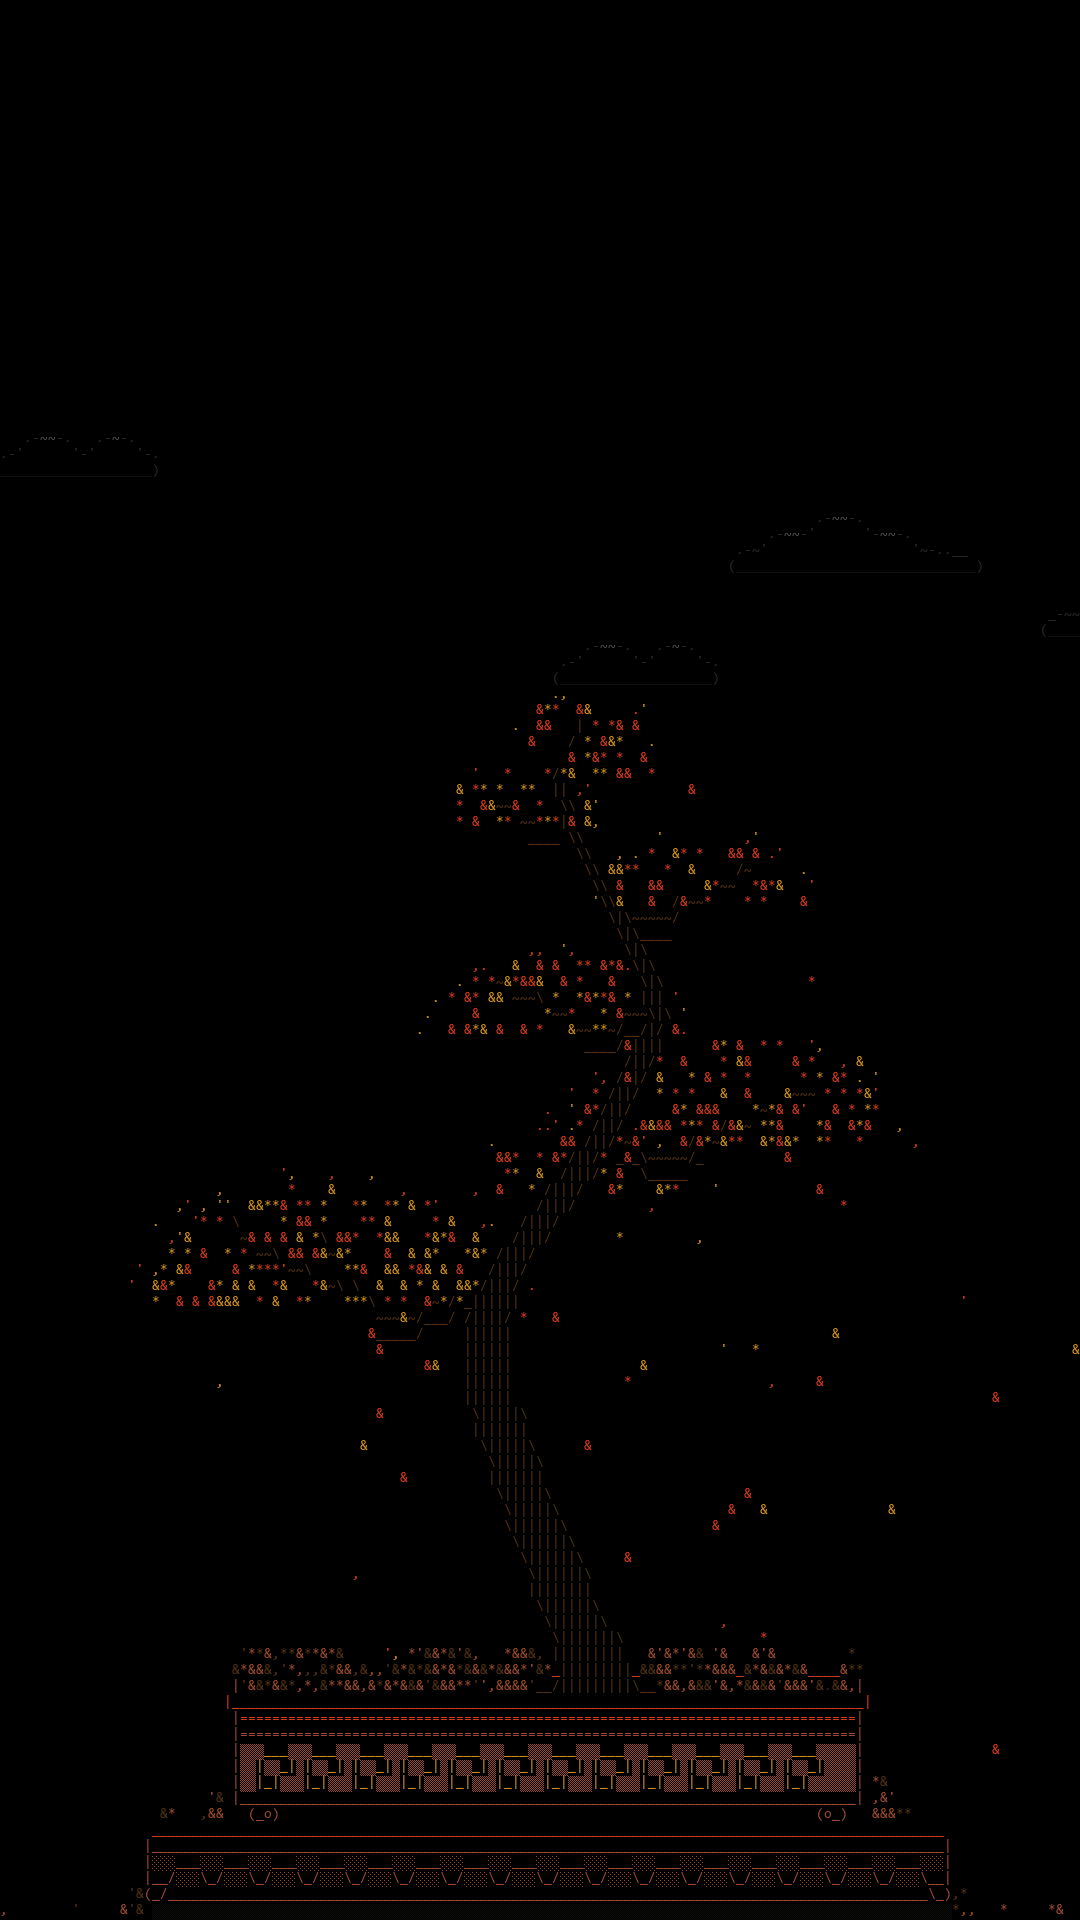
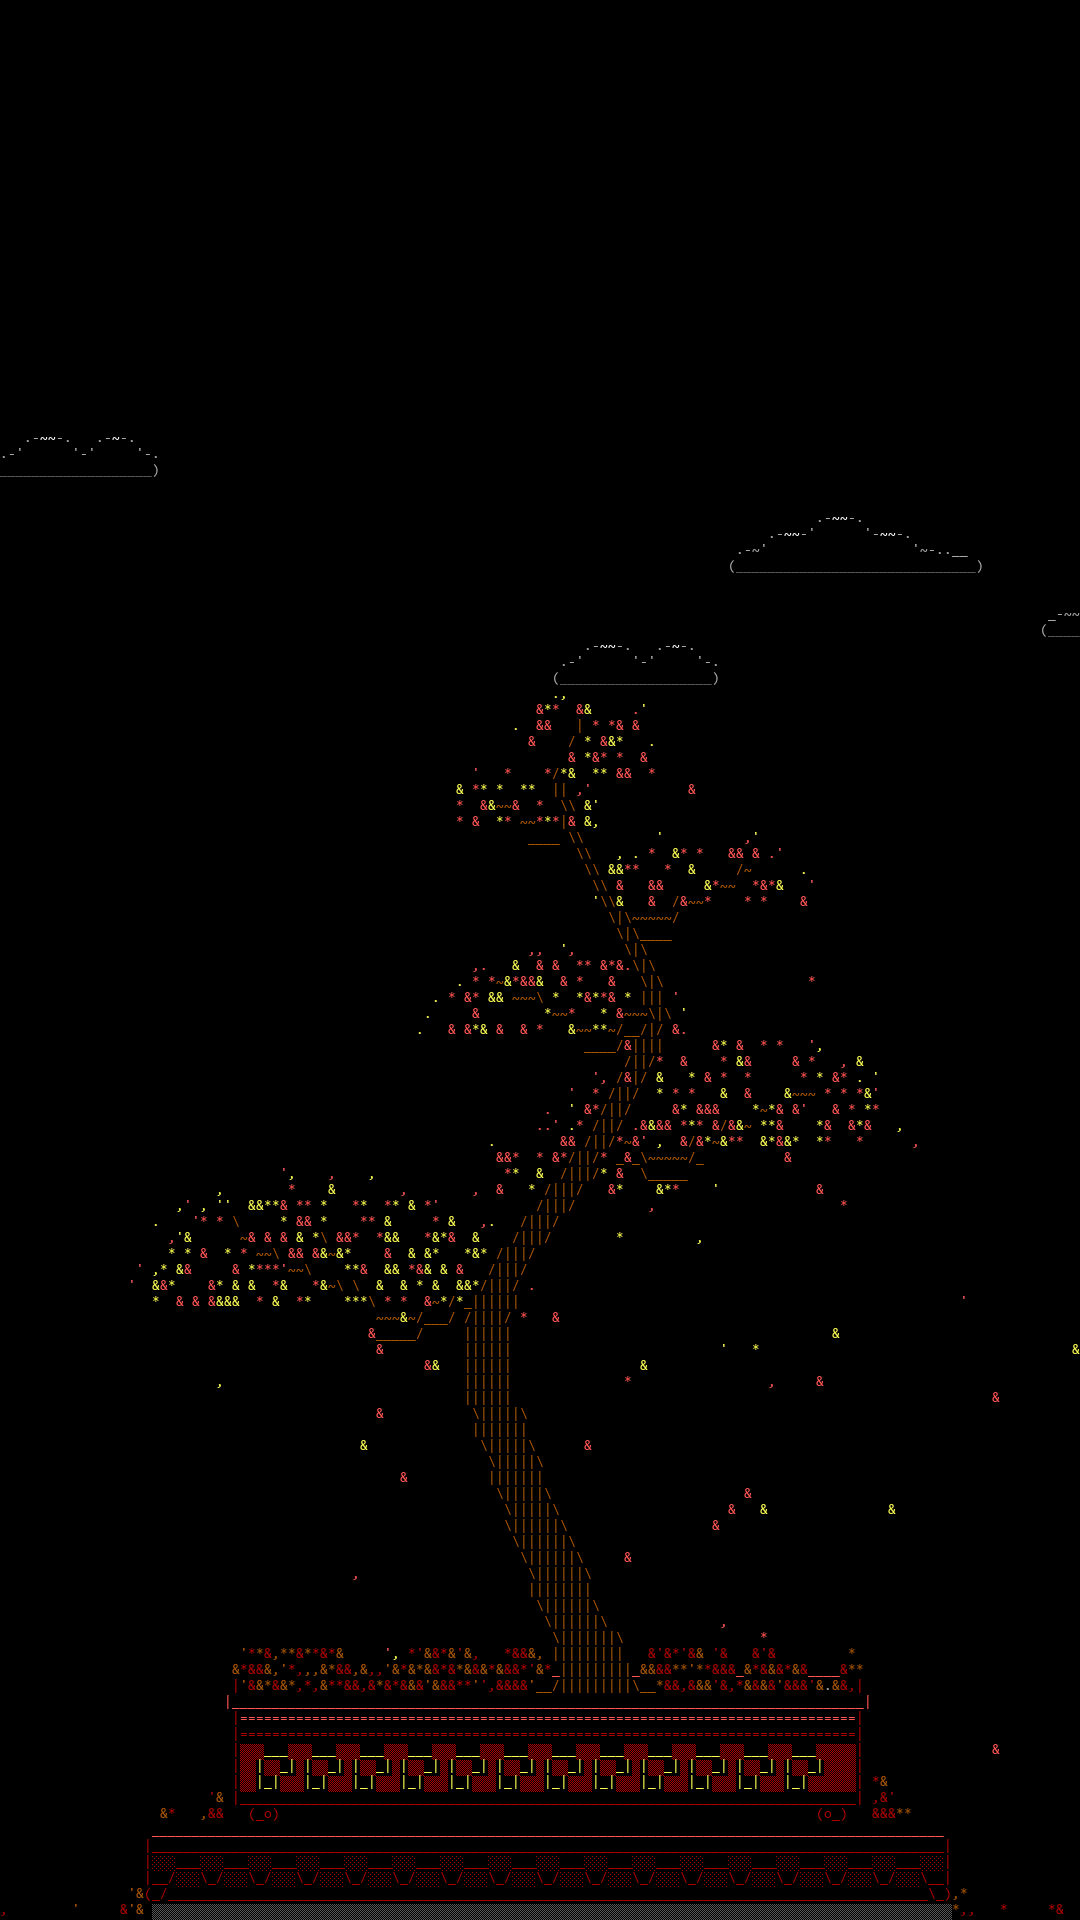
The black-sky renders in the console's own colours
Without a landscape the program leaves the console's palette alone, so the harness
shows those frames in the standard console palette rather than the landscape's.

diff --git a/tools/scene_review.py b/tools/scene_review.py
@@ -34,7 +34,9 @@ def main():
     mod, cfg, rest = setup(argv)
     if core:
         mod.TRUNK_CORE = core
-    mod.PALETTE_WAY = "harness"  # as on a console whose palette the program sets
+    # With a landscape the program sets the console's palette; without one it leaves the
+    # console's own colours, which the PNG shows as the standard console palette.
+    mod.PALETTE_WAY = "harness" if cfg["landscape"] != "no" else None
     outdir = rest[0]
     seed = int(rest[1]) if len(rest) > 1 else 1
     trees = int(rest[2]) if len(rest) > 2 else 1
@@ -121,7 +123,12 @@ def draw_png(mod, pairs, cells, out):
         font = ImageFont.truetype("C:/Windows/Fonts/consola.ttf", 14)
     except OSError:
         font = ImageFont.load_default()
-    rgb = {slot: mod.hex_rgb(spec[0]) for slot, spec in mod.PALETTE_DAY.items()}
+    if mod.PALETTE_WAY:
+        rgb = {slot: mod.hex_rgb(spec[0]) for slot, spec in mod.PALETTE_DAY.items()}
+    else:  # the standard console palette, as a console the program does not re-colour shows it
+        rgb = {i: mod.hex_rgb(h) for i, h in enumerate((
+            "#000000", "#aa0000", "#00aa00", "#aa5500", "#0000aa", "#aa00aa", "#00aaaa", "#aaaaaa",
+            "#555555", "#ff5555", "#55ff55", "#ffff55", "#5555ff", "#ff55ff", "#55ffff", "#ffffff"))}
     for y in range(H):
         for x in range(W):
             c, attr = cells[y][x]
